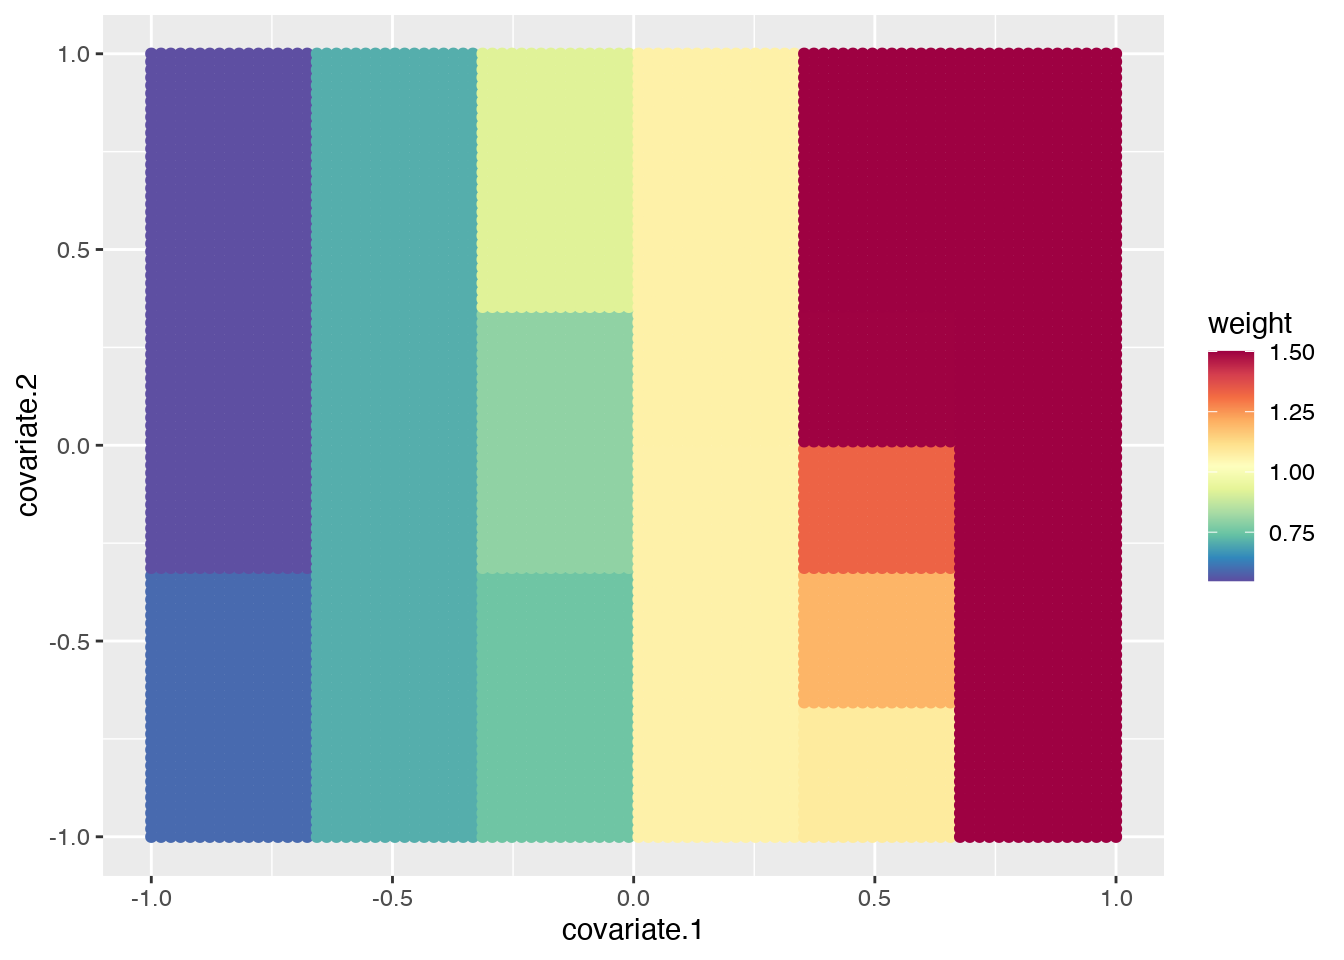
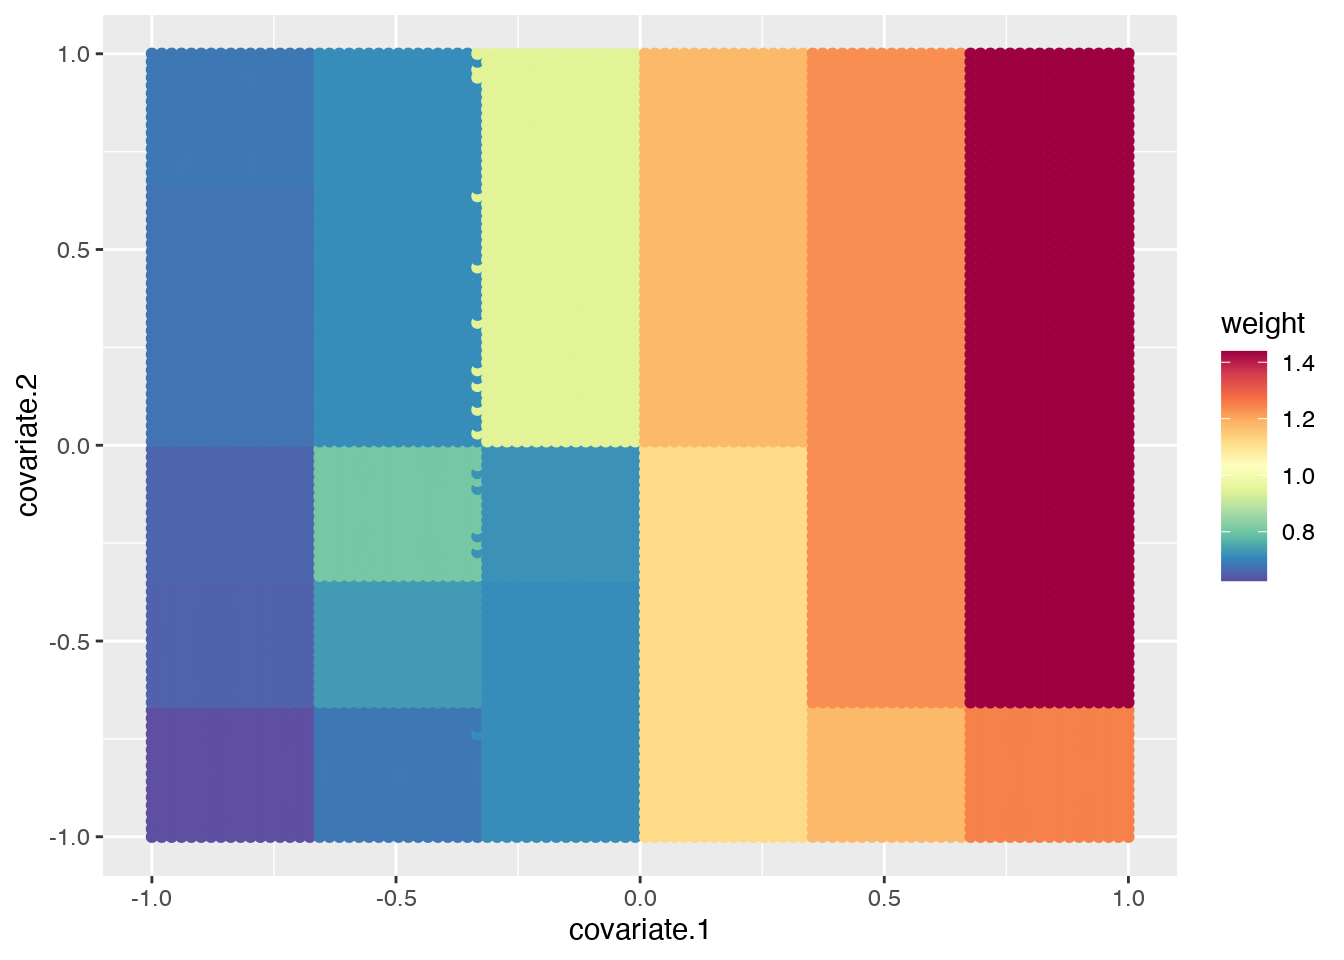
rendered plot smooth weight

diff --git a/boca_leek/20230404b_plot_smooth_weight.html b/boca_leek/20230404b_plot_smooth_weight.html
@@ -190,13 +190,13 @@ code span.wa { color: #60a0b0; font-weight: bold; font-style: italic; } /* Warni
 <span id="cb6-2"><a href="#cb6-2" aria-hidden="true" tabindex="-1"></a>folds <span class="ot">&lt;-</span> <span class="fu">c</span>(<span class="fu">rep</span>(<span class="dv">1</span>, <span class="fu">nrow</span>(data_train)), <span class="fu">rep</span>(<span class="dv">2</span>, <span class="fu">nrow</span>(data_test)))</span>
 <span id="cb6-3"><a href="#cb6-3" aria-hidden="true" tabindex="-1"></a><span class="fu">head</span>(data_train_test)</span></code><button title="Copy to Clipboard" class="code-copy-button"><i class="bi"></i></button></pre></div>
 <div class="cell-output cell-output-stdout">
-<pre><code>  covariate.1 covariate.2  prop_alt Hs       pvalue
-1  -0.7365391  -0.2576929 0.3237614  1 0.2220118665
-2   0.6528866   0.1552184 0.6576606  1 0.0033696416
-3  -0.9979836   0.4736784 0.2693381  0 0.1761671710
-4  -0.7763568  -0.0485351 0.3151056  0 0.4947661078
-5  -0.5077152  -0.2065156 0.3757293  1 0.0004199014
-6  -0.4590898  -0.4260883 0.3872018  1 0.4845162460</code></pre>
+<pre><code>  covariate.1 covariate.2  prop_alt Hs     pvalue
+1  -0.7989536  -0.3279861 0.3102494  0 0.44549467
+2   0.8415576  -0.5972185 0.6987932  1 0.04415090
+3   0.4718422   0.5965801 0.6158197  0 0.08287573
+4  -0.6423333   0.4086174 0.3447193  0 0.07560218
+5  -0.8516724   0.6905638 0.2990821  0 0.73417724
+6  -0.6361967   0.9002085 0.3461068  0 0.85947516</code></pre>
 </div>
 </div>
 </section>
